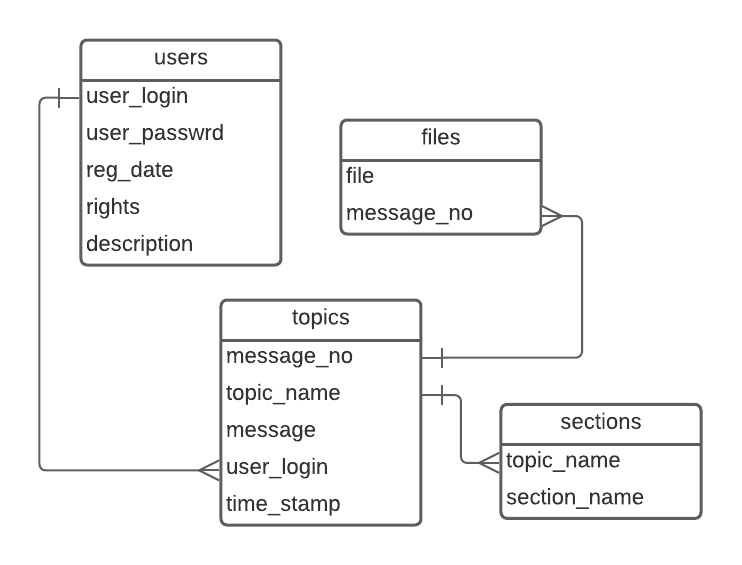
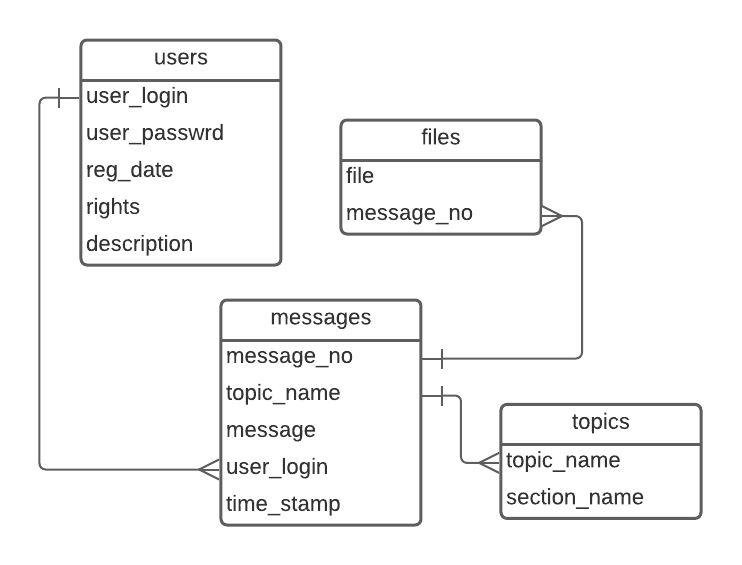
rename tables, correct readme

diff --git a/README.md b/README.md
@@ -15,14 +15,14 @@
 **Страница тем раздела:**
   * Название раздела
   * Список тем: название + кликабельная ссылка, логин создателя + кликабельная ссылка, время последнего сообщения, количество сообщений -> "Страница темы", "Страница пользователя"
-  * Кнопка "Создать тему" (у пользователей) -> "Страница для добавления темы"
+  * Кнопка "Создать тему" -> "Страница для добавления темы"
   * Кнопка "Удалить" (у модераторов) рядом с каждой темой
   * Кнопка "Удалить раздел" (у модераторов)
 
 **Страница темы:**
   * Название темы
   * Список сообщений: логин автора + кликабельная ссылка, время сообщения, текст сообщения, прикрепленные файлы
-  * Форма добавления нового сообщения + кнопка "Прикрепить файл" (у пользователей)
+  * Форма добавления нового сообщения + кнопка "Прикрепить файл"
   * Кнопка "Удалить" (у модераторов) рядом с каждым сообщением, (у пользователей) рядом со своим сообщением
   * Кнопка "Удалить тему" (у модераторов)
 
@@ -83,7 +83,7 @@
    * Верхнее меню--Пользователи -> Страница пользователей--Логин -> Блокировать
    * ... -> Страница пользователя -> Блокировать
 
-**4. Для обычных пользователей: создание тем, создание/удаление своих сообщений в теме, изменение своего пользователя (кроме прав)**
+**4. Для всех пользователей: создание тем, создание/удаление своих сообщений в теме, изменение своего пользователя (кроме прав)**
  * Создание темы: Главная страница--Раздел -> Страница тем раздела -> Создать тему -> Страница для добавления темы
  * Создание сообщения: ... -> Страница темы -> Форма добавления нового сообщения
  * Удаление своего сообщения: ... -> Страница темы--Сообщение -> Удалить
